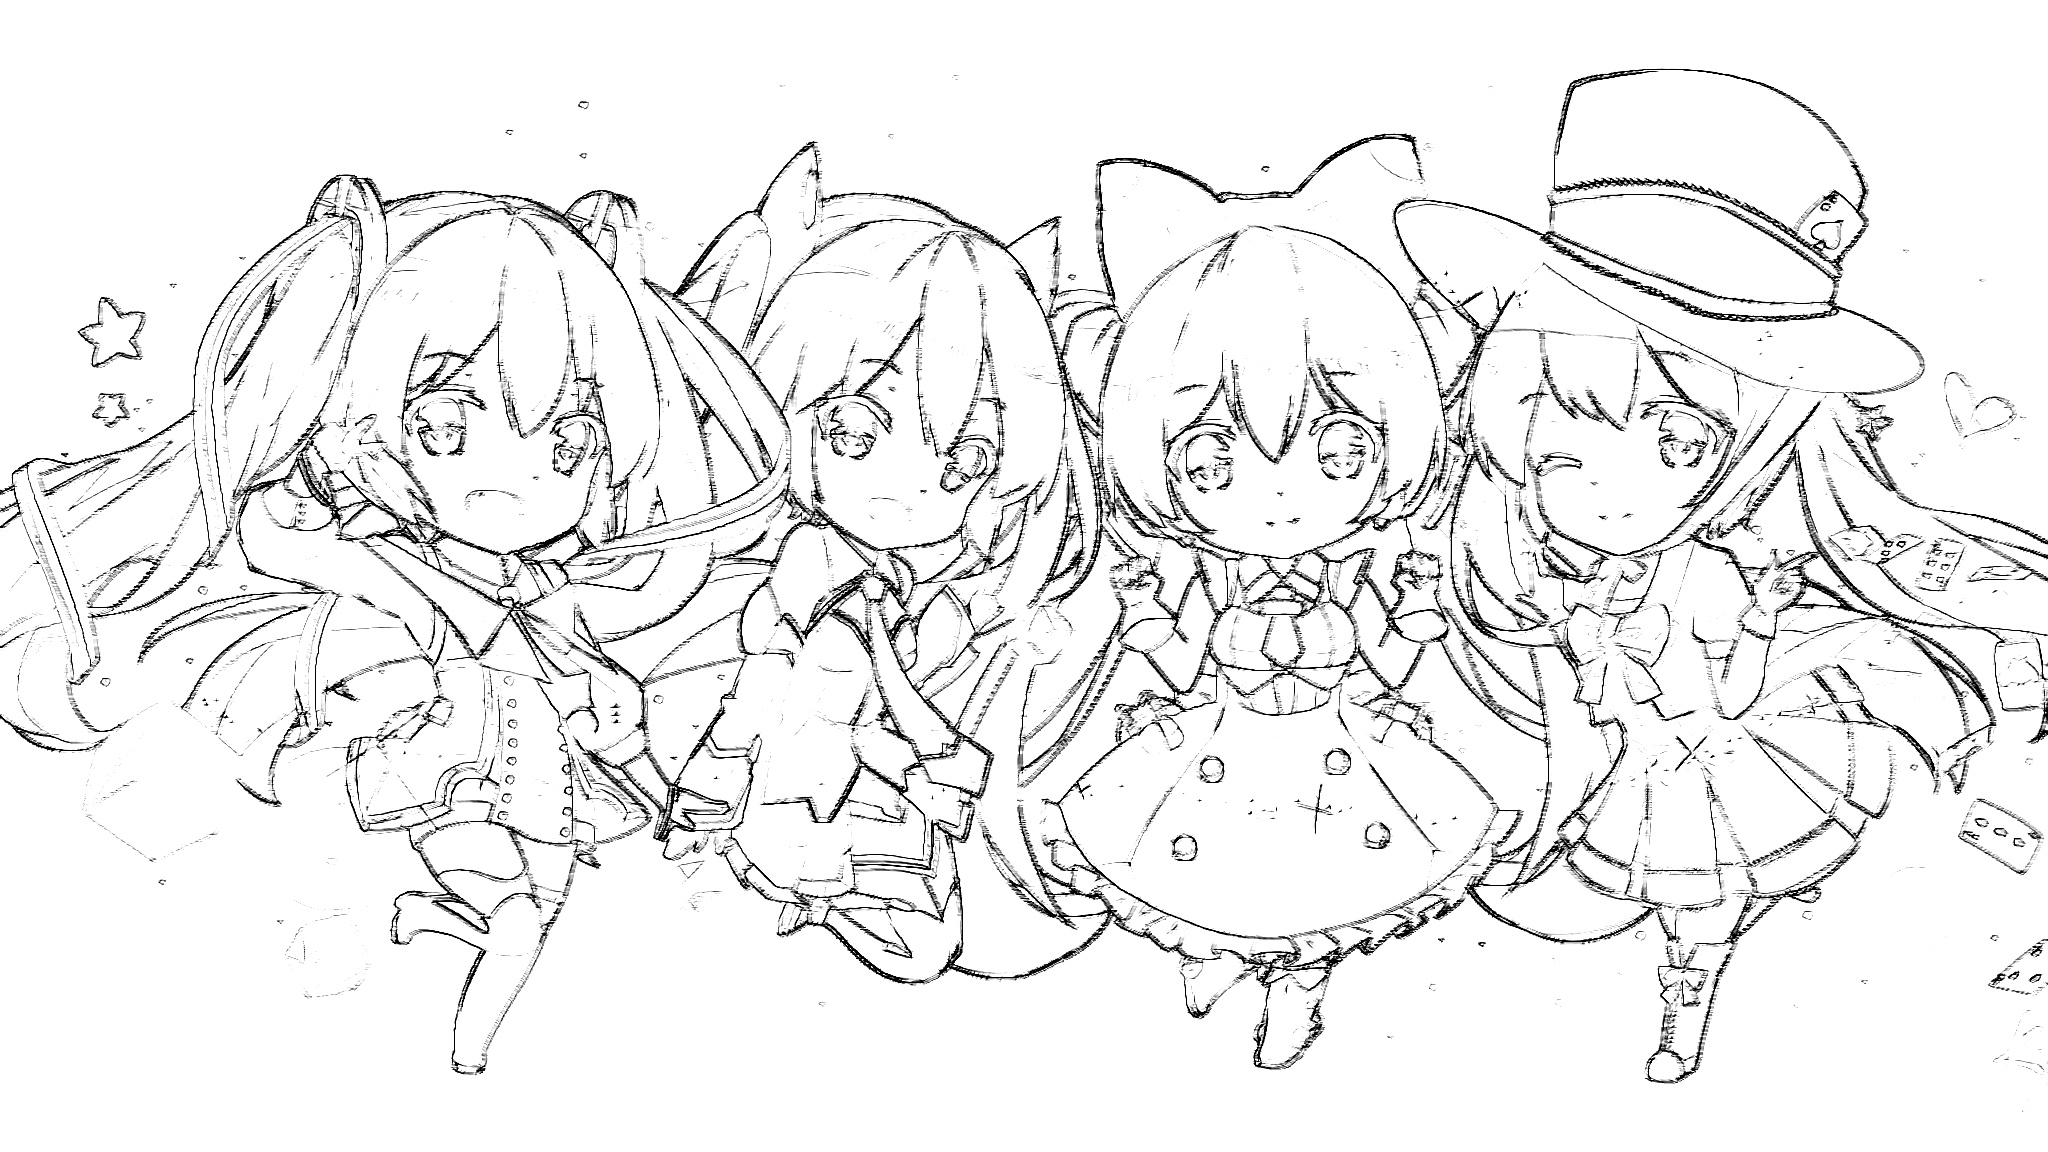
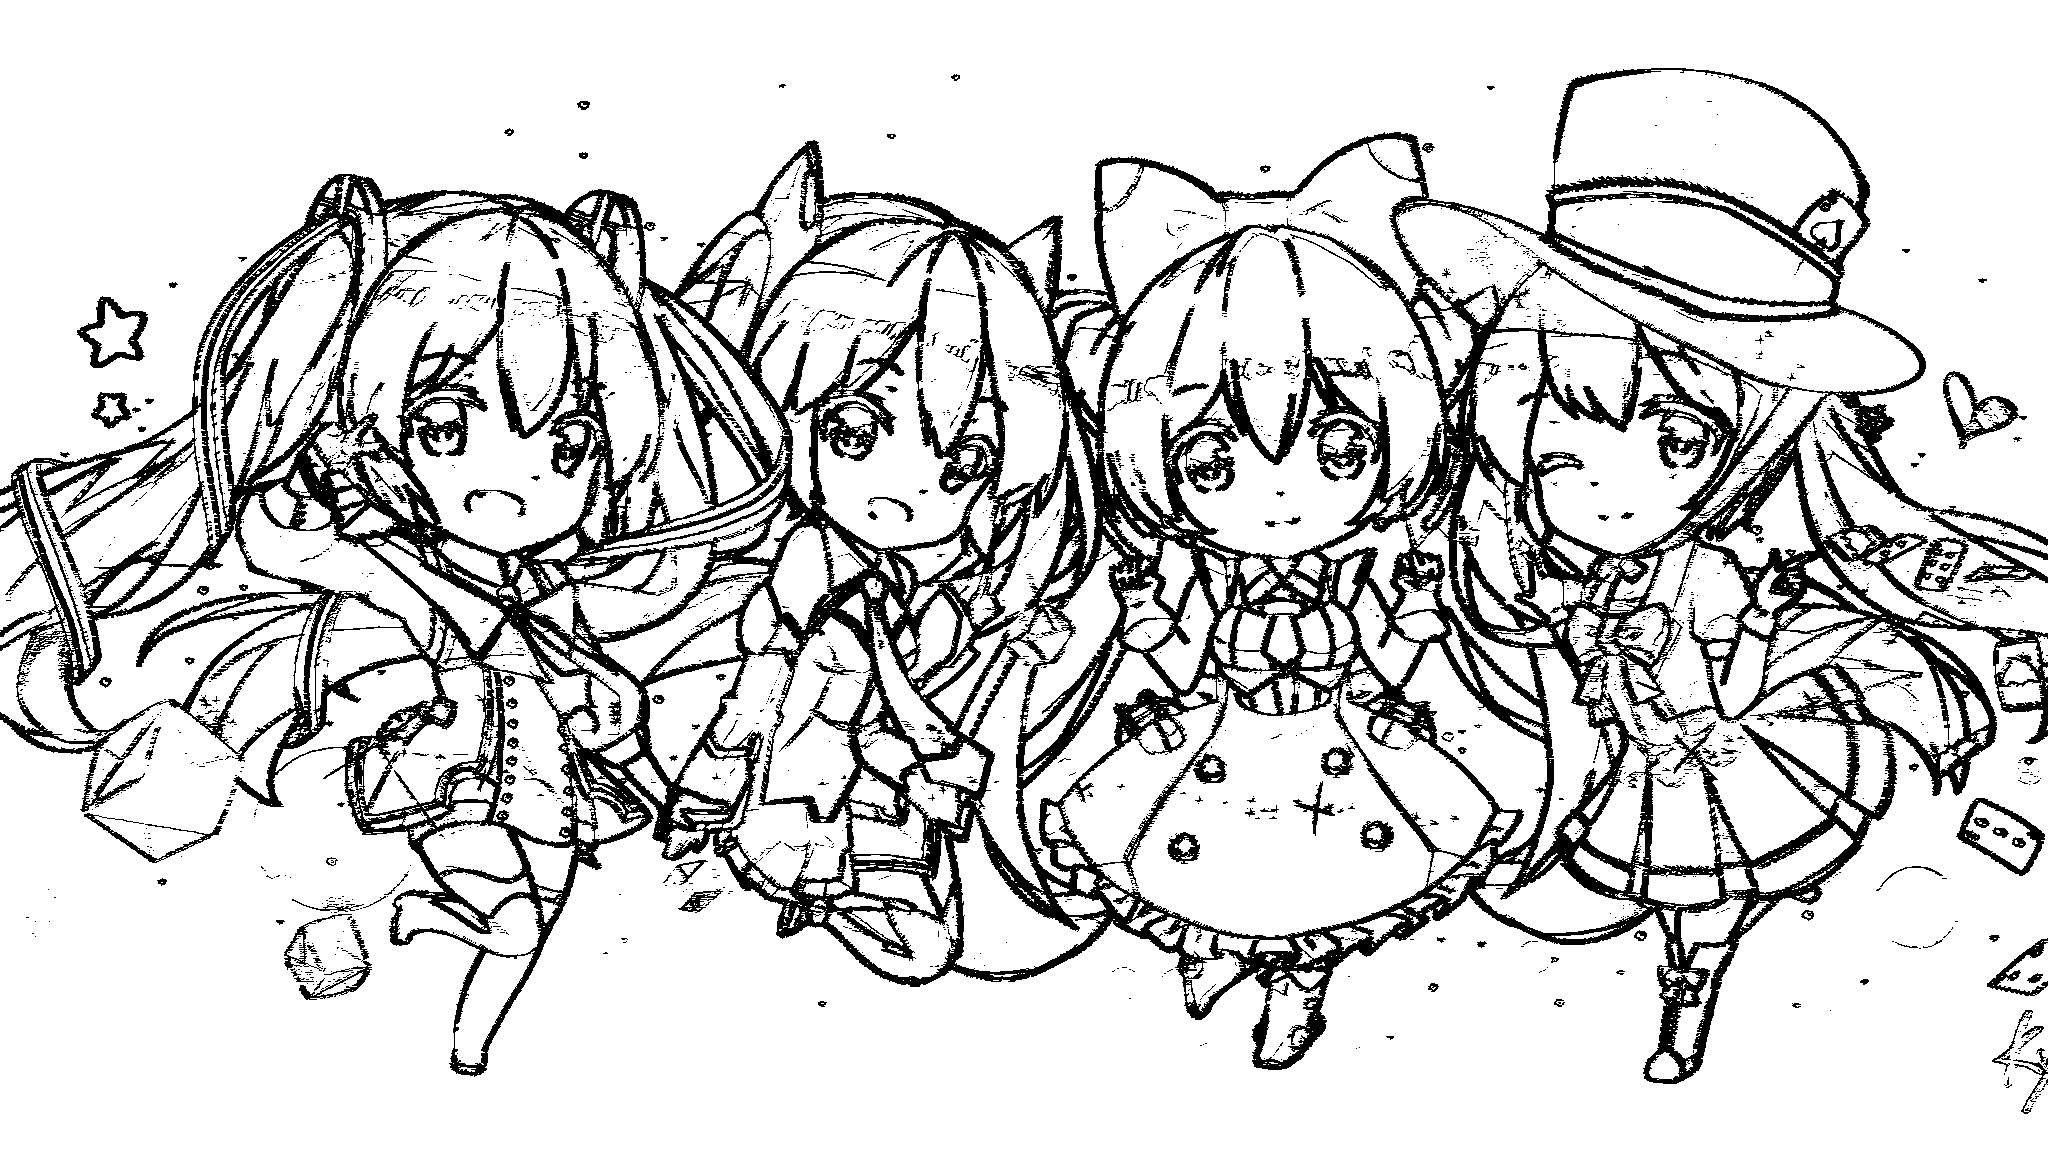
Update edge extraction

diff --git a/edge_extraction/edge.py b/edge_extraction/edge.py
@@ -99,45 +99,55 @@ def edge_demo(image):
     cv2.imwrite('canny_edge_erode.jpg',img_erode)
 
 def edge_filter(image):
-    kernel1 = np.array([[-3,-1,0,1,3],
-                        [-1,0,0,0,1],
-                        [0,0,0,0,0],
-                        [-1,0,0,0,1],
-                        [-3,-1,0,1,3]])
+    kernel1 = np.array([[1,0],
+                        [0,-1]])
     kernel2 = np.array([[-1,0,1],
                         [-2,0,2],
                         [-1,0,1]])
-    kernel3 = np.array([[-1,-2,-1],
-                        [0,0,0],
-                        [-1,-2,-1]])
-    # s1 = np.sum(kernel1)
+    kernel3 = np.array([[-1,0,1],
+                        [-1,0,1],
+                        [-1,0,1]])
+    threshold = 50
+    l = []
     res1 = cv2.filter2D(image,-1,kernel2)
-    res2 = cv2.filter2D(image,-1,kernel3)
+    res2 = cv2.filter2D(image,-1,kernel2.T)
     res = np.clip(res1+res2,0,255)
-    res[np.where(res>20)] = 255
-    cv2.imwrite('res1.png',255-res)
-    res = cv2.filter2D(image,-1,kernel1)
-    # res[np.where(res<=100)] = 0
-    cv2.imwrite('res2.png',255-res)
+    res[np.where(res>=threshold)] = 255
+    l.append(255-res)
+    cv2.imwrite('Sobel.png',255-res)
+    res1 = cv2.filter2D(image,-1,kernel1)
+    res2 = cv2.filter2D(image,-1,kernel1.T)
+    res = np.clip(res1+res2,0,255)
+    res[np.where(res>=threshold)] = 255
+    l.append(255-res)
+    cv2.imwrite('Roberts.png',255-res)
+    res1 = cv2.filter2D(image,-1,kernel3)
+    res2 = cv2.filter2D(image,-1,kernel3.T)
+    res = np.clip(res1+res2,0,255)
+    res[np.where(res>=threshold)] = 255
+    l.append(255-res)
+    cv2.imwrite('Prewitt.png',255-res)
+    length = len(l)
+    l1 = l.pop(0).astype(np.float32)
+    res1 = l1.copy()
+    res2 = l1.copy()
+    for img in l:
+        res1 = res1 * img
+        res2 = res2 + img
+    res1 = (res1/255/255).astype(np.uint8)
+    res1[np.where(res1>=threshold)] = 255
+    cv2.imwrite('SRP_M.png',res1)
+    res2 = (res2 / length).astype(np.uint8)
+    res2[np.where(res2>=threshold*3)] = 255
+    cv2.imwrite('SRP_A.png',res2)
 
 def edge(image):
-    h,w = image.shape
-    image = cv2.resize(image,(w,h))
     sigma = 3
     kernel_size = (0,0)
     L = cv2.GaussianBlur(image, kernel_size, sigma)
-    H = (255 - cv2.subtract(image, L)) / 255
-    H = H ** 5
-    # contours, _ = cv2.findContours((H*255).astype(np.uint8), cv2.RETR_TREE, cv2.CHAIN_APPROX_SIMPLE)
-    # n = len(contours)  # 轮廓的个数
-    # cv_contours = []
-    # for contour in contours:
-    #     area = cv2.contourArea(contour)
-    #     if area >= 32:
-    #         cv_contours.append(contour)
-    H = cv2.resize(H,(w,h))
-    # cv2.fillPoly(H, cv_contours, (255, 255, 255))
-    cv2.imwrite('res.png',H*255)
+    H = (255 - cv2.subtract(image, L))
+    H[H<=250] = 0
+    cv2.imwrite('DoG.png',H)
 
 if __name__ == '__main__':
     img = cv2.imread('sample.jpg',0)

diff --git a/edge_extraction/pencil_edge.py b/edge_extraction/pencil_edge.py
@@ -86,8 +86,8 @@ def pencil_stroke(img):
     S = get_stroke(img, 3, 8)
     S = S ** 10
     S = (cv2.resize(S,(w,h))*255).astype(np.uint8)
-    # S[np.where(S>.7*255)] = 255
-    # S[np.where(S<.35*255)] = 0
+    S[np.where(S>.5*255)] = 255
+    S[np.where(S<.5*255)] = 0
     # c_min, c_max = np.min(S[np.where((S>.3*255)&(S<.7*255))]),np.max(S[np.where((S>.3*255)&(S<.7*255))])
     # S[np.where((S>.3*255)&(S<.7*255))] = ((S[np.where((S>.3*255)&(S<.7*255))] - c_min) / (c_max - c_min) * 255).astype(np.uint8)
     return S
